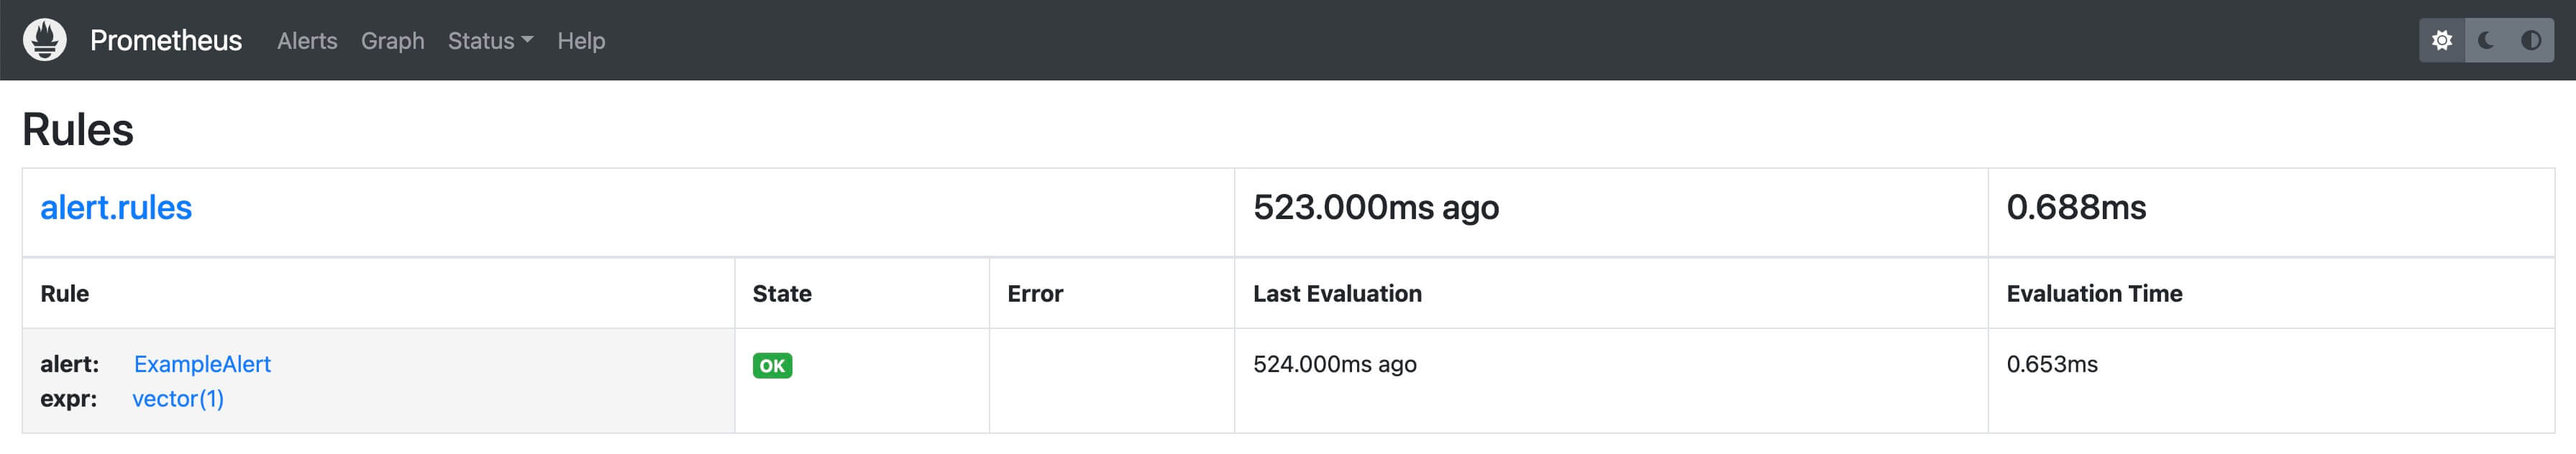
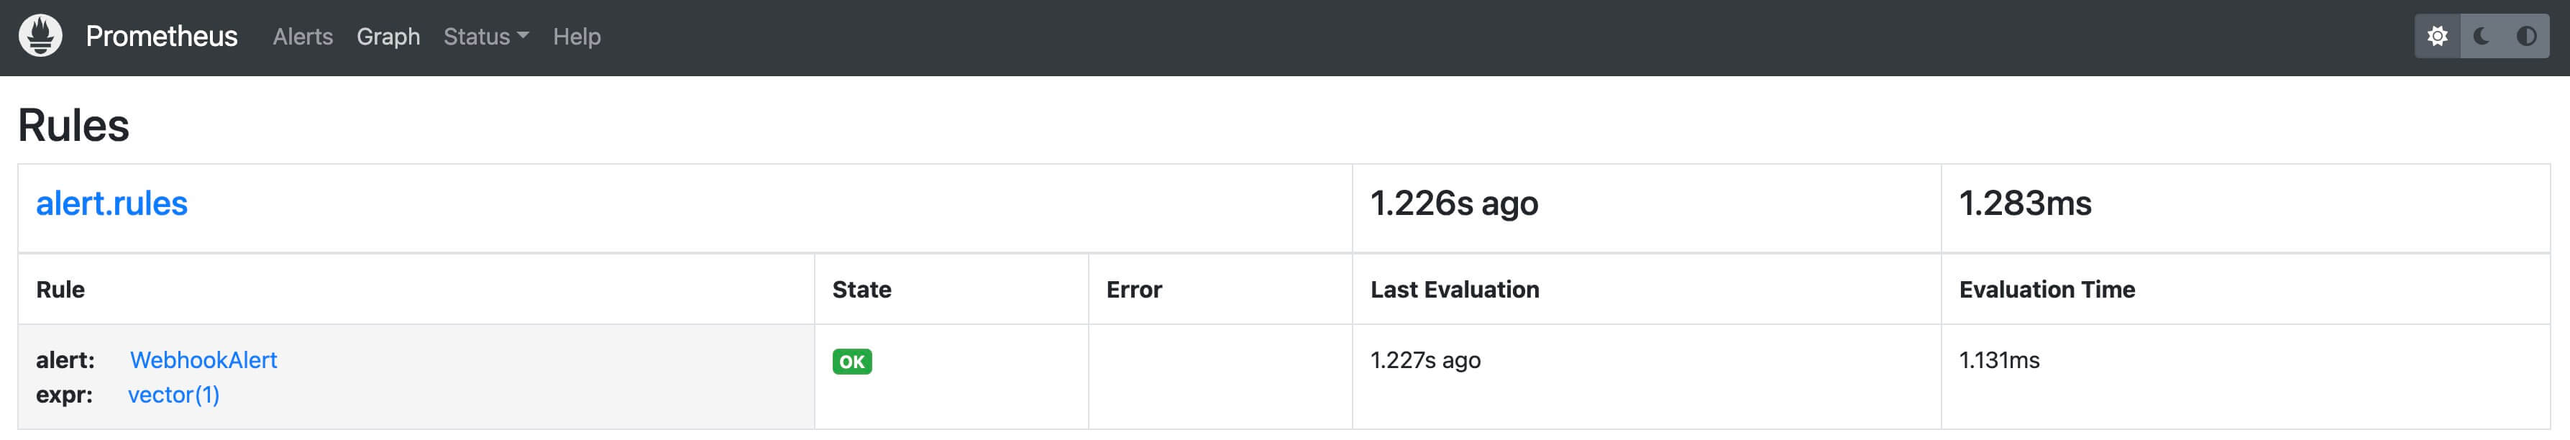
chore: update recording and alerting

diff --git a/docs/user_docs/guides/prometheus/recording-and-alerting.md b/docs/user_docs/guides/prometheus/recording-and-alerting.md
@@ -4,19 +4,17 @@ sidebar_position: 1
 
 # Recording and Alerting
 
-The Prometheus Operator provides Kubernetes native deployment and management of Prometheus and related monitoring components. The purpose of this project is to simplify and automate the configuration of a Prometheus-based monitoring stack for Kubernetes clusters.
+This guide will show you how to set up an Alertmanager cluster integrating with a Prometheus instance based on Prometheus Operator, and use PromethuesRules to record metrics and push alerts.
 
-The Prometheus operator includes, but is not limited to, the following features:
+## Introduction
 
-- Kubernetes Custom Resources: Use Kubernetes custom resources to deploy and manage Prometheus, Alertmanager, and related components.
-- Simplified Deployment Configuration: Configure the fundamentals of Prometheus like versions, persistence, retention policies, and replicas from a native Kubernetes resource.
-- Prometheus Target Configuration: Automatically generate monitoring target configurations based on familiar Kubernetes label queries; no need to learn a Prometheus-specific configuration language.
+Prometheus is an open-source system monitoring and alerting toolkit. It collects and stores its metrics as time series data, i.e. metrics information is stored with the timestamp at which it was recorded, alongside optional key-value pairs called labels.
 
-The following is the architecture diagram of the Prometheus Operator:
+This diagram illustrates the architecture of Prometheus and some of its ecosystem components:
 
 ![](/img/docs/user_docs/guides/prometheus/structure.png)
 
-This guide will show you how to set up an Alertmanager cluster integrating with a Prometheus instance based on Prometheus Operator, and use PromethuesRules to record metrics and push alerts.
+Prometheus scrapes metrics from instrumented jobs, either directly or via an intermediary push gateway for short-lived jobs. It stores all scraped samples locally and runs rules over this data to either aggregate and record new time series from existing data or generate alerts. Grafana or other API consumers can be used to visualize the collected data.
 
 ## Prerequisites
 
@@ -58,7 +56,10 @@ There is a project named `prometheus-install` in Konfig mono repo, which contain
 - required RBAC
 - a Prometheus Service
 
-If you can't wait to experience one-click deployment, please jump to the [One-click Deployment](#one-click-deployment) section.
+
+:::info
+If you can't wait to experience one-click setup, please jump to the [One-click Setup](#one-click-setup) section.
+:::
 
 ### Setup Alertmanager
 
@@ -79,10 +80,10 @@ Option 2 is chosen in the [`prometheus-install`](https://github.com/KusionStack/
 ```py
 _alertmanager_config: monitoringv1alpha1.AlertmanagerConfig{
     metadata = {
-        name = "config-example"
+        name = "main"
         namespace = _common_namespace
         labels = {
-            "alertmanagerConfig" = "example"
+            "alertmanagerConfig" = "main"
         }
     }
     spec = {
@@ -112,7 +113,7 @@ _alertmanager_config: monitoringv1alpha1.AlertmanagerConfig{
 ```py
 _alertmanager: monitoringv1.Alertmanager{
     metadata = {
-        name = "example"
+        name = "main"
         namespace = "default"
     }
     spec = {
@@ -131,7 +132,7 @@ Creating a Kubernetes Service listening target port `9093`:
 ```py
 _alertmanager_svc: corev1.Service{
     metadata = {
-        name = "alertmanager-example"
+        name = "alertmanager"
         namespace = _common_namespace
     }
     spec = {
@@ -206,7 +207,7 @@ For full configuration of RBAC rules，please check source code file: [`promethe
 ```py
 _prometheus: monitoringv1.Prometheus{
     metadata = {
-        name = "example"
+        name = "main"
         namespace = "default"
     }
     spec = {
@@ -217,12 +218,12 @@ _prometheus: monitoringv1.Prometheus{
         ruleSelector = {
             matchLabels = {
                 "role" = "alert-rules"
-                "prometheus" = "example"
+                "prometheus" = "main"
             }
         }
         serviceMonitorSelector = {
             matchLabels = {
-                "prometheus" = "example"
+                "prometheus" = "main"
             }
         }
         # intergating with alert manager by its service
@@ -245,7 +246,7 @@ Creating a Kubernetes service listening target port `9090`:
 ```py
 _prometheus_svc: corev1.Service{
     metadata = {
-        name = "prometheus-example"
+        name = "prometheus"
         namespace = "default"
     }
     spec = {
@@ -276,12 +277,12 @@ More information about the admin API can be found in [Prometheus official docume
 For complete configuration, please check source code file: [`prometheus-install/prod/main.k`](https://github.com/KusionStack/konfig/blob/main/base/examples/monitoring/prometheus-install/prod/main.k).
 :::
 
-### One-click Deployment
+### One-click Setup
 
 Now you can deploy them with one click. Firstly, enter the stack dir of project `prometheus-install` in the konfig repo:
 
 ```bash
-cd base/examples/monitoring/prometheus-install/prod
+cd konfig/base/examples/monitoring/prometheus-install/prod
 ```
 
 Then, run `kusion apply`:
@@ -297,13 +298,13 @@ The output is similar to:
 
 Stack: prod  ID                                                                        Action  
  * ├─        rbac.authorization.k8s.io/v1:ClusterRole:default:prometheus               Create
- * ├─        monitoring.coreos.com/v1:Alertmanager:default:example                     Create  
- * ├─        monitoring.coreos.com/v1alpha1:AlertmanagerConfig:default:config-example  Create
- * ├─        monitoring.coreos.com/v1:Prometheus:default:example                       Create
+ * ├─        monitoring.coreos.com/v1:Alertmanager:default:main                        Create
+ * ├─        monitoring.coreos.com/v1alpha1:AlertmanagerConfig:default:main            Create
+ * ├─        monitoring.coreos.com/v1:Prometheus:default:main                          Create
  * ├─        rbac.authorization.k8s.io/v1:ClusterRoleBinding:default:prometheus        Create
  * ├─        v1:ServiceAccount:default:prometheus                                      Create
- * ├─        v1:Service:default:alertmanager-example                                   Create
- * └─        v1:Service:default:prometheus-example                                     Create
+ * ├─        v1:Service:default:alertmanager                                           Create
+ * └─        v1:Service:default:prometheus                                             Create
 
 ? Do you want to apply these diffs?  [Use arrows to move, type to filter]
   yes
@@ -407,10 +408,10 @@ The following code snippet is an example of alerting rules:
 ```py
 _alerts: monitoringv1.PrometheusRule {
     metadata = {
-        name = "example-alert"
+        name = "alert"
         namespace = "default"
         labels: {
-            "prometheus": "example",
+            "prometheus": "main",
             "role": "alert-rules",
         }
     }
@@ -420,7 +421,7 @@ _alerts: monitoringv1.PrometheusRule {
                 name = "alert.rules"
                 rules = [
                     {
-                        alert: "ExampleAlert"
+                        alert: "WebhookAlert"
                         # vector(s scalar) returns the scalar s as a vector with no labels.
                         expr: "vector(1)"
                     }
